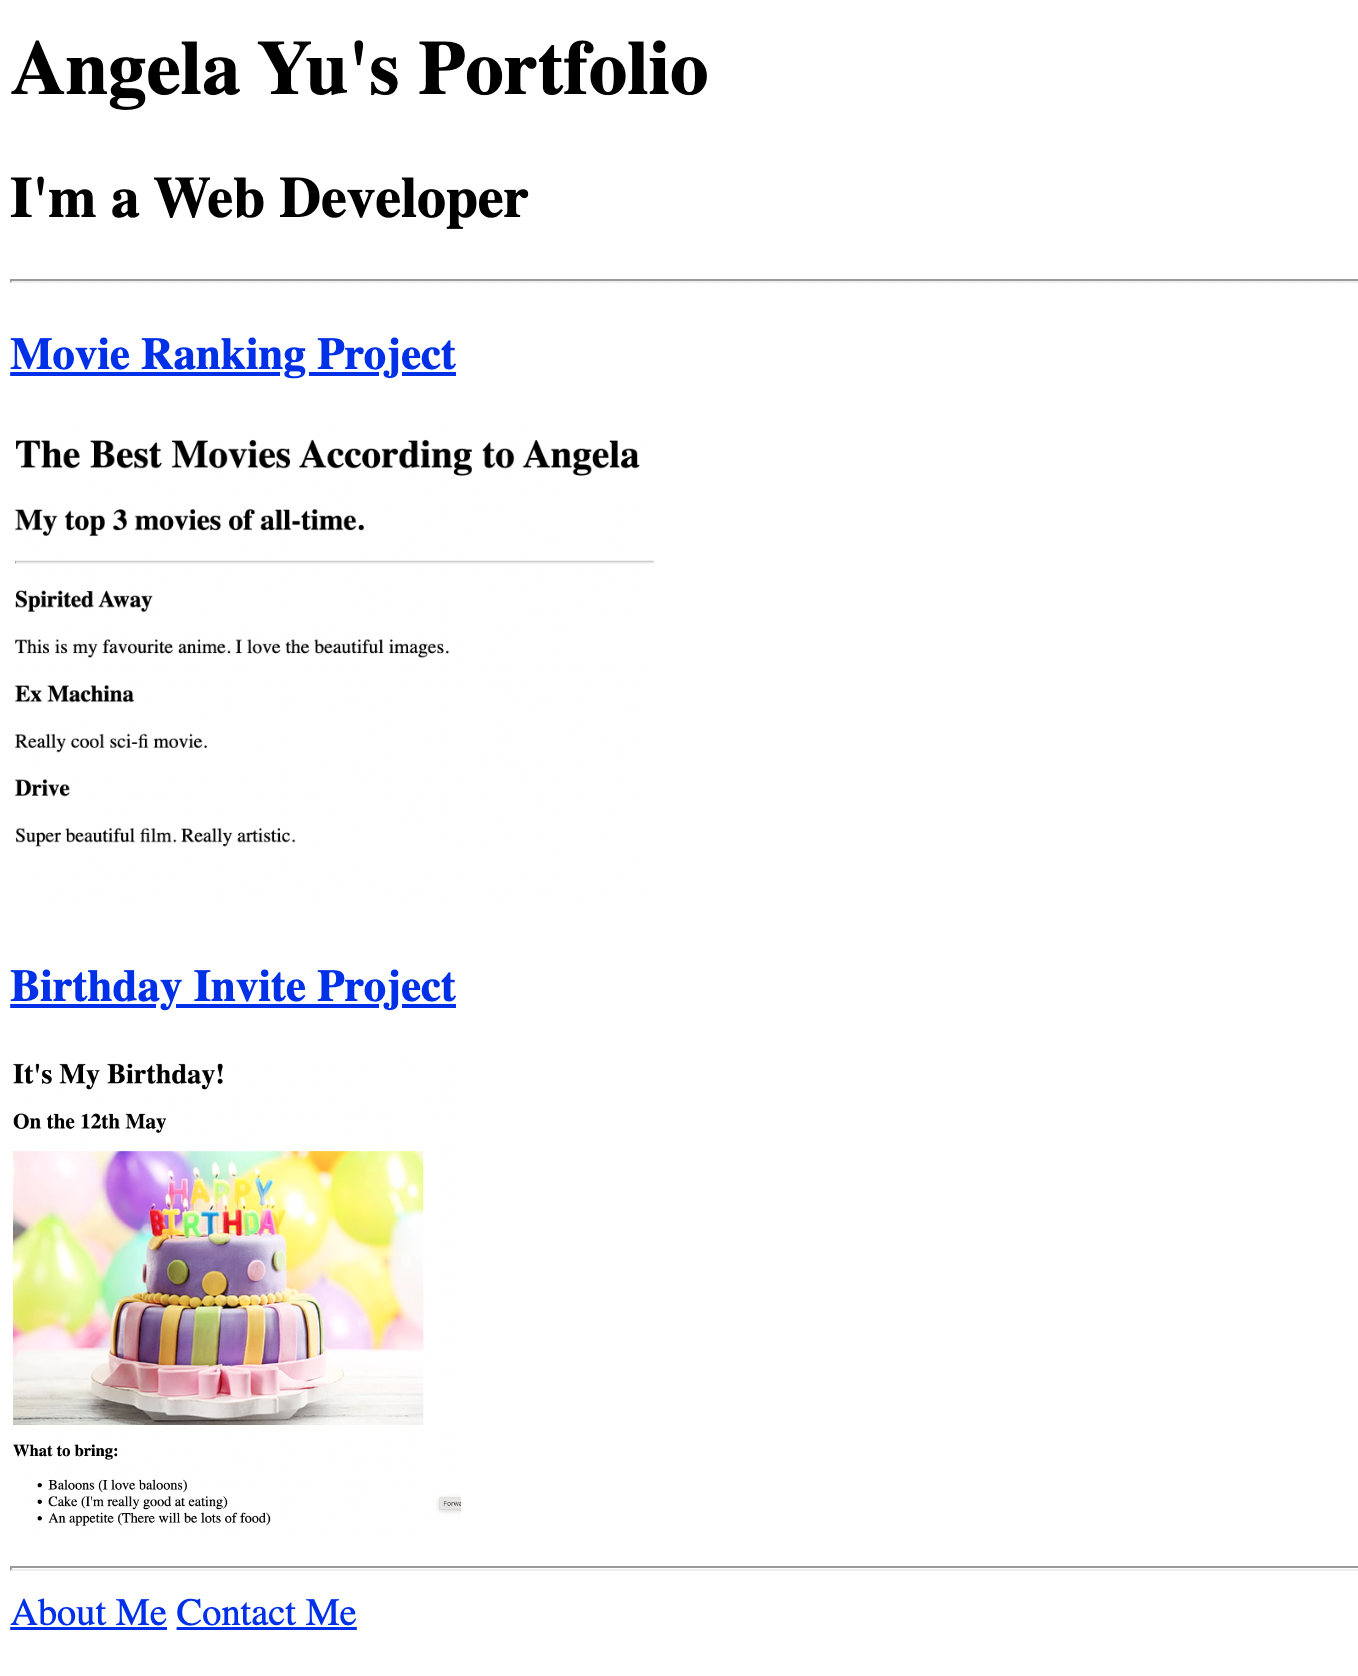
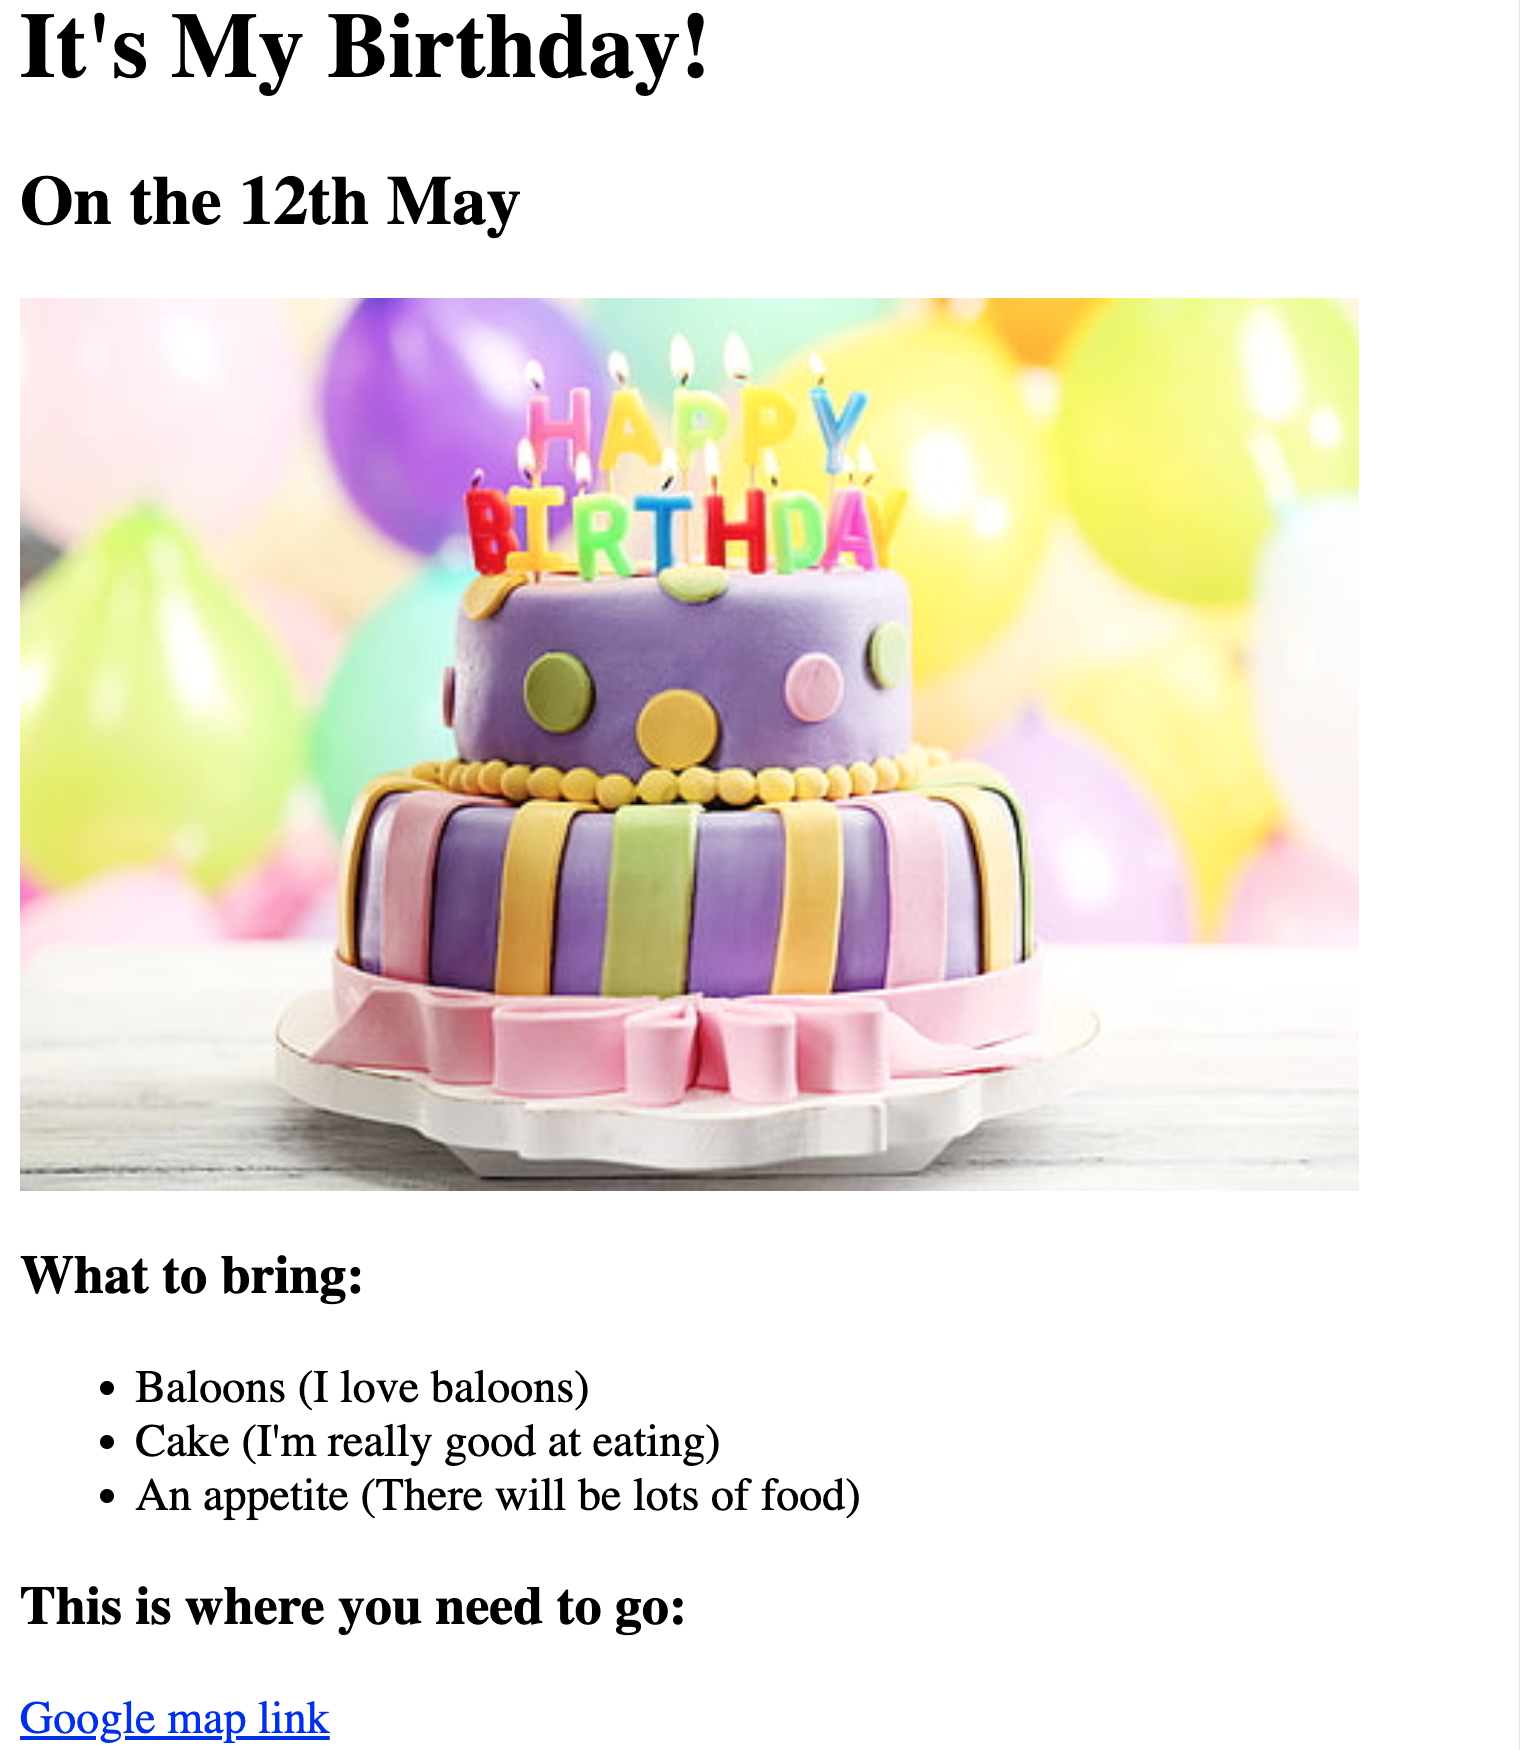
birthday invite project using web development

diff --git a/index.html b/index.html
@@ -1,28 +1,13 @@
-<!DOCTYPE html>
-<html lang="eng">
-    <head>
-        <meta charset="UTF-8">
-        <title>My Website</title>
+<h1>Augest 24 is My GirlFriends Birthday</h1>
+<img src="https://raw.githubusercontent.com/appbrewery/webdev/main/birthday-cake3.4.jpeg
+" alt="">
+<h2>What she Loves.</h2>
+<ul>
 
-
-    </head>
-    <body>
-        <h1>Adharsh's portfolio</h1>
-        <h2>I'm a web developer</h2>
-        <hr>
-        <h3><a href="./public/movie-ranking.html">Movie Ranking Project</a></h3>
-        <img src="./assets/images/movie-ranking.png"height="300" alt="movies details">
-        <h3><a href="./public/birthday-invite.html">Birthday Invite Project</a></h3>
-        <img src="./assets/images/birthday-invite.png" height="200" alt="birthday project">
-        <hr>
-
-        <a href="./public/contact.html">contact now</a>
-        <a href="./public/about.html"> about me</a>
-
-        
-
-
-        
-    </body>
-</html>
-
+    <li>Icecream</li>
+    <li>parma</li>
+    <li>chocolates</li>
+    
+</ul>
+<h3>This is where you need to go:</h3>
+<a href="https://maps.app.goo.gl/eSpbNotKymZt5HkE8">This is the location</a>

diff --git a/solution.html b/solution.html
@@ -1,22 +1,18 @@
-<!DOCTYPE html>
-<html lang="en">
+<!-- This is one possible solution -->
+<h1>It's My Birthday!</h1>
+<h2>On the 12th May</h2>
 
-<head>
-  <meta charset="UTF-8">
-  <title>Angela's Portfolio</title>
-</head>
+<img src="https://raw.githubusercontent.com/appbrewery/webdev/main/birthday-cake3.4.jpeg"
+  alt="purple birthday cake with candles" />
 
-<body>
-  <h1>Angela Yu's Portfolio</h1>
-  <h2>I'm a Web Developer</h2>
-  <hr />
-  <h3><a href="./public/movie-ranking.html">Movie Ranking Project</a></h3>
-  <img src="./assets/images/movie-ranking.png" height="200" alt="movie ranking project preview"/>
-  <h3><a href="./public/birthday-invite.html">Birthday Invite Project</a></h3>
-  <img src="./assets/images/birthday-invite.png" height="200" alt="birthday invite project preview"/>
-  <hr />
-  <a href="./public/about.html">About Me</a>
-  <a href="./public/contact.html">Contact Me</a>
-</body>
+<h3>What to bring:</h3>
+<ul>
+  <li>Baloons (I love baloons)</li>
+  <li>Cake (I'm really good at eating)</li>
+  <li>An appetite (There will be lots of food)</li>
+</ul>
 
-</html>
+<h3>This is where you need to go:</h3>
+<a
+  href="https://www.google.com/maps/@35.7040744,139.5577317,3a,75y,289.6h,87.01t,0.72r/data=!3m6!1e1!3m4!1sgT28ssf0BB2LxZ63JNcL1w!2e0!7i13312!8i6656">Google
+  map link</a>